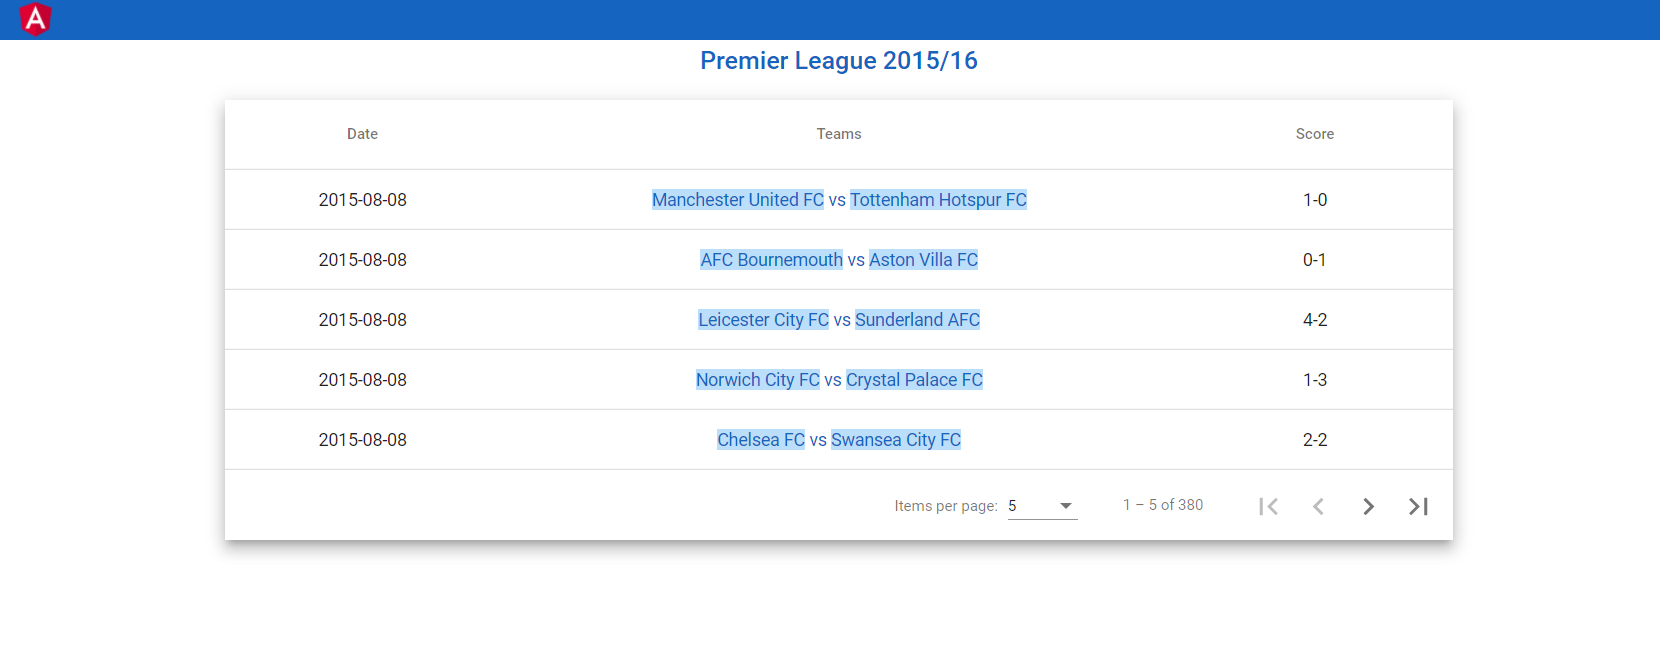
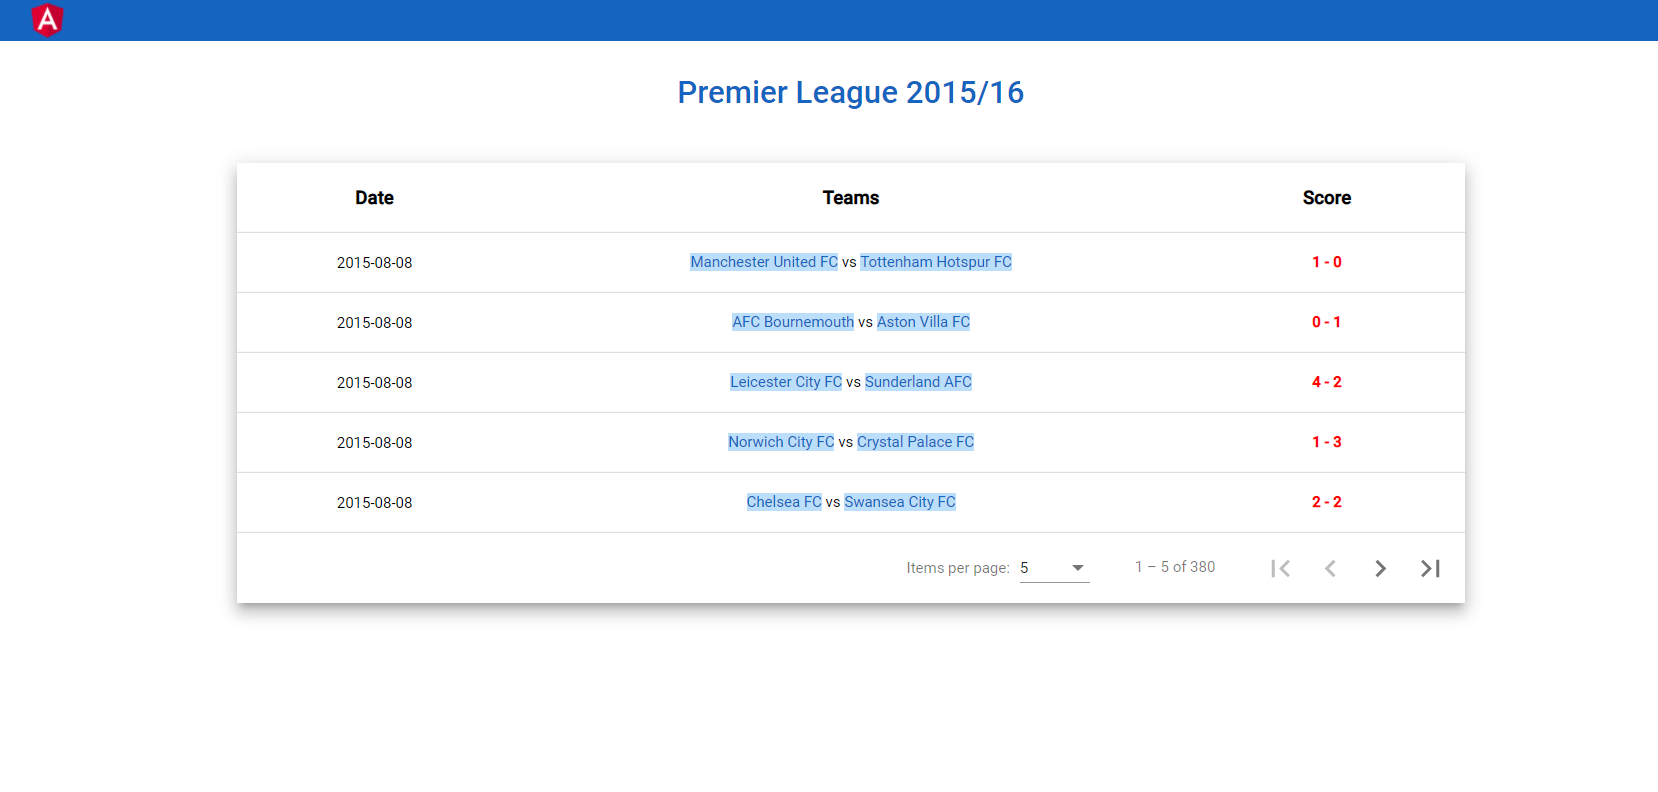
Design Modified

diff --git a/src/app/premier-league-results/premier-league-results.component.html b/src/app/premier-league-results/premier-league-results.component.html
@@ -4,7 +4,7 @@
 <div class = 'container'>
 <div class="right"> </div>
 <div class="center">
-  <h2 style="color: #1565c0; text-align: center;">{{Title}}</h2>
+  <h2 style="color: #1565c0; text-align: center; font-size: 25px; padding-block-end: 2%; padding-block-start: 2%;">{{Title}}</h2>
   <div class="mat-elevation-z8 center">
 
       <table mat-table [dataSource]="dataSource">
@@ -12,19 +12,19 @@
         <!-- Date Column -->
         <ng-container matColumnDef="Date">
           <th mat-header-cell *matHeaderCellDef> Date</th>
-          <td mat-cell *matCellDef="let element"> {{element.date}} </td>
+          <td mat-cell *matCellDef="let element"> <span style = "font-weight: normal; font-size: 12px;">{{element.date}}</span> </td>
         </ng-container>
     
         <!-- Tean Column -->
         <ng-container matColumnDef="Teams">
           <th mat-header-cell *matHeaderCellDef> Teams </th>
-          <td mat-cell *matCellDef="let element" style="color: #1565c0;"> <span style="background-color: #bbdefb;">{{element.team1}}</span>  vs <span style="background-color: #bbdefb;">{{element.team2}} </span></td>
+          <td mat-cell *matCellDef="let element" style="color: #1565c0; font-weight: normal; font-size: 12px;"> <span style="background-color: #bbdefb;">{{element.team1}}</span>  <span style="color:black"> vs </span> <span style="background-color: #bbdefb;">{{element.team2}} </span></td>
         </ng-container>
     
         <!-- Score Column -->
         <ng-container matColumnDef="Score">
           <th mat-header-cell *matHeaderCellDef> Score </th>
-          <td mat-cell *matCellDef="let element"> {{element.score}} </td>
+          <td mat-cell *matCellDef="let element" style="color: red; font-size: 12px;"> <b>{{element.score}}</b> </td>
         </ng-container>
     
         <tr mat-header-row *matHeaderRowDef="displayedColumns"></tr>

diff --git a/src/app/premier-league-results/premier-league-results.component.css b/src/app/premier-league-results/premier-league-results.component.css
@@ -51,13 +51,22 @@ table {
 .mat-column-Date {
   flex: none;
   width: 20%;
+  font-weight: bold;
+  color: black;
+  font-size: 15px;
 }
 .mat-column-Teams {
   flex: none;
   width: 60%;
+  font-weight: bold;
+  color: black;
+  font-size: 15px;
 }
 
 .mat-column-Score {
   flex: none;
   width: 20%;
+  font-weight: bold;
+  color: black;
+  font-size: 15px;
 }

diff --git a/src/app/premier-league-results/premier-league-results.component.ts b/src/app/premier-league-results/premier-league-results.component.ts
@@ -47,7 +47,7 @@ export class PremierLeagueResultsComponent implements OnInit {
             date:j.date,
             team1:j.team1,
             team2:j.team2,
-            score:j.score.ft[0] +'-' + j.score.ft[1]
+            score:j.score.ft[0] +' - ' + j.score.ft[1]
           })
         }
     }
